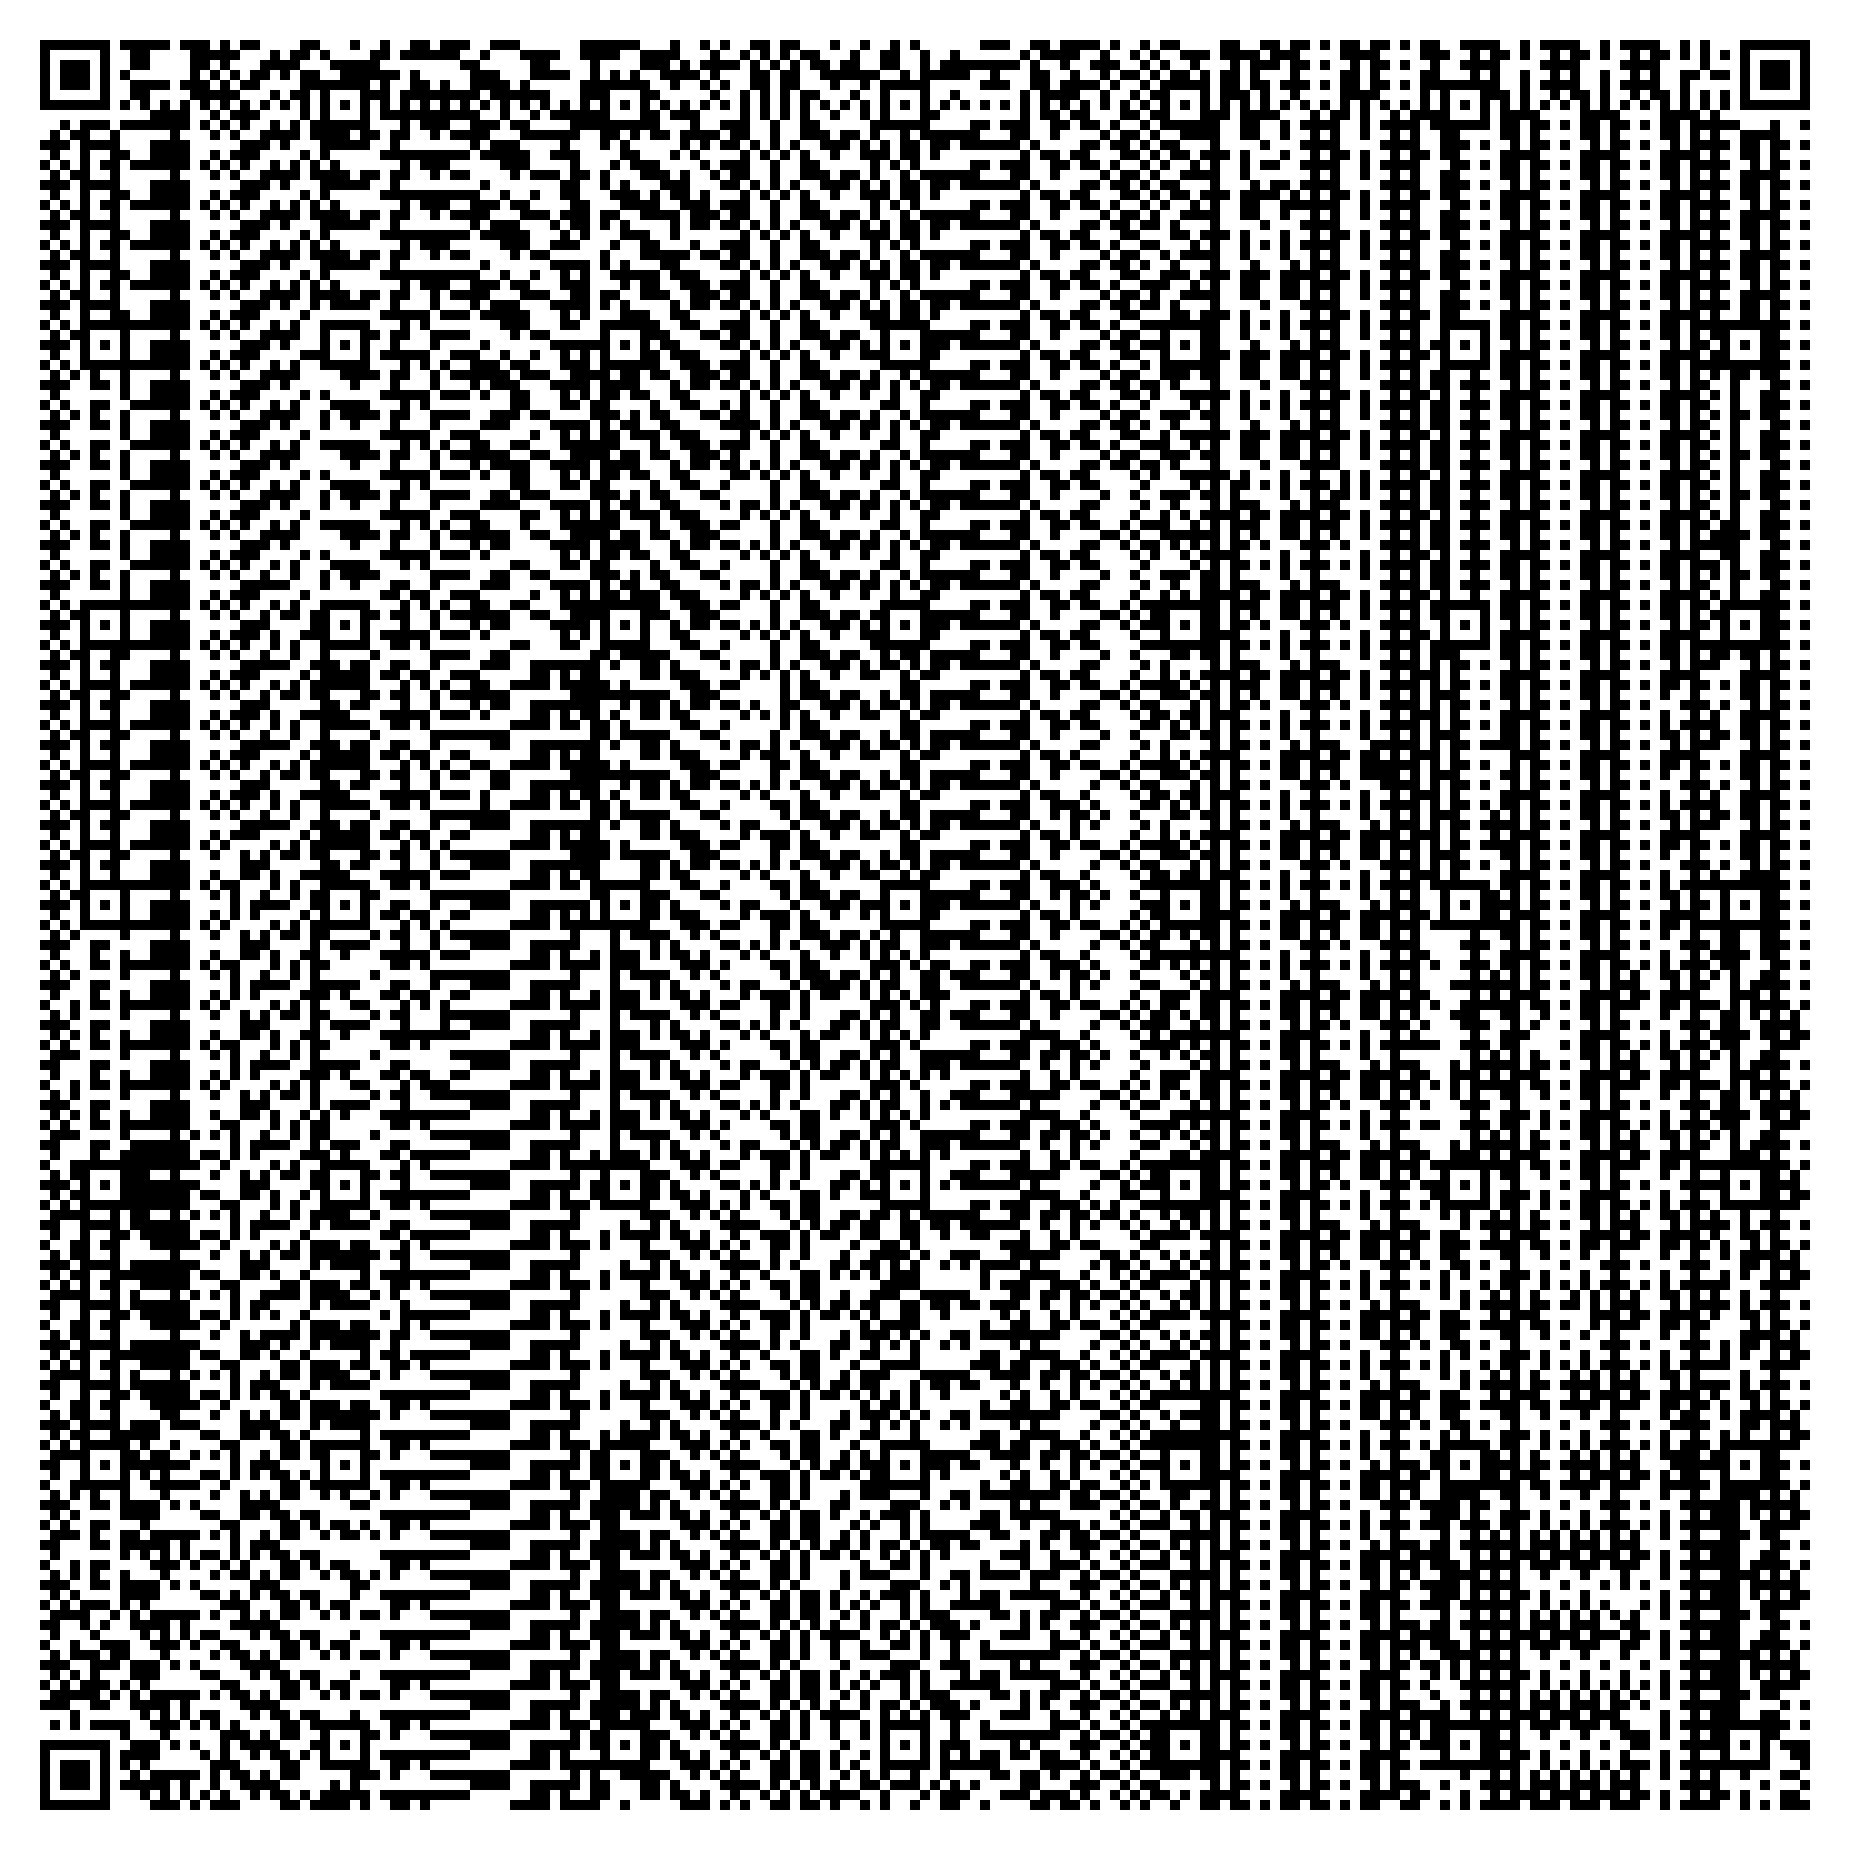
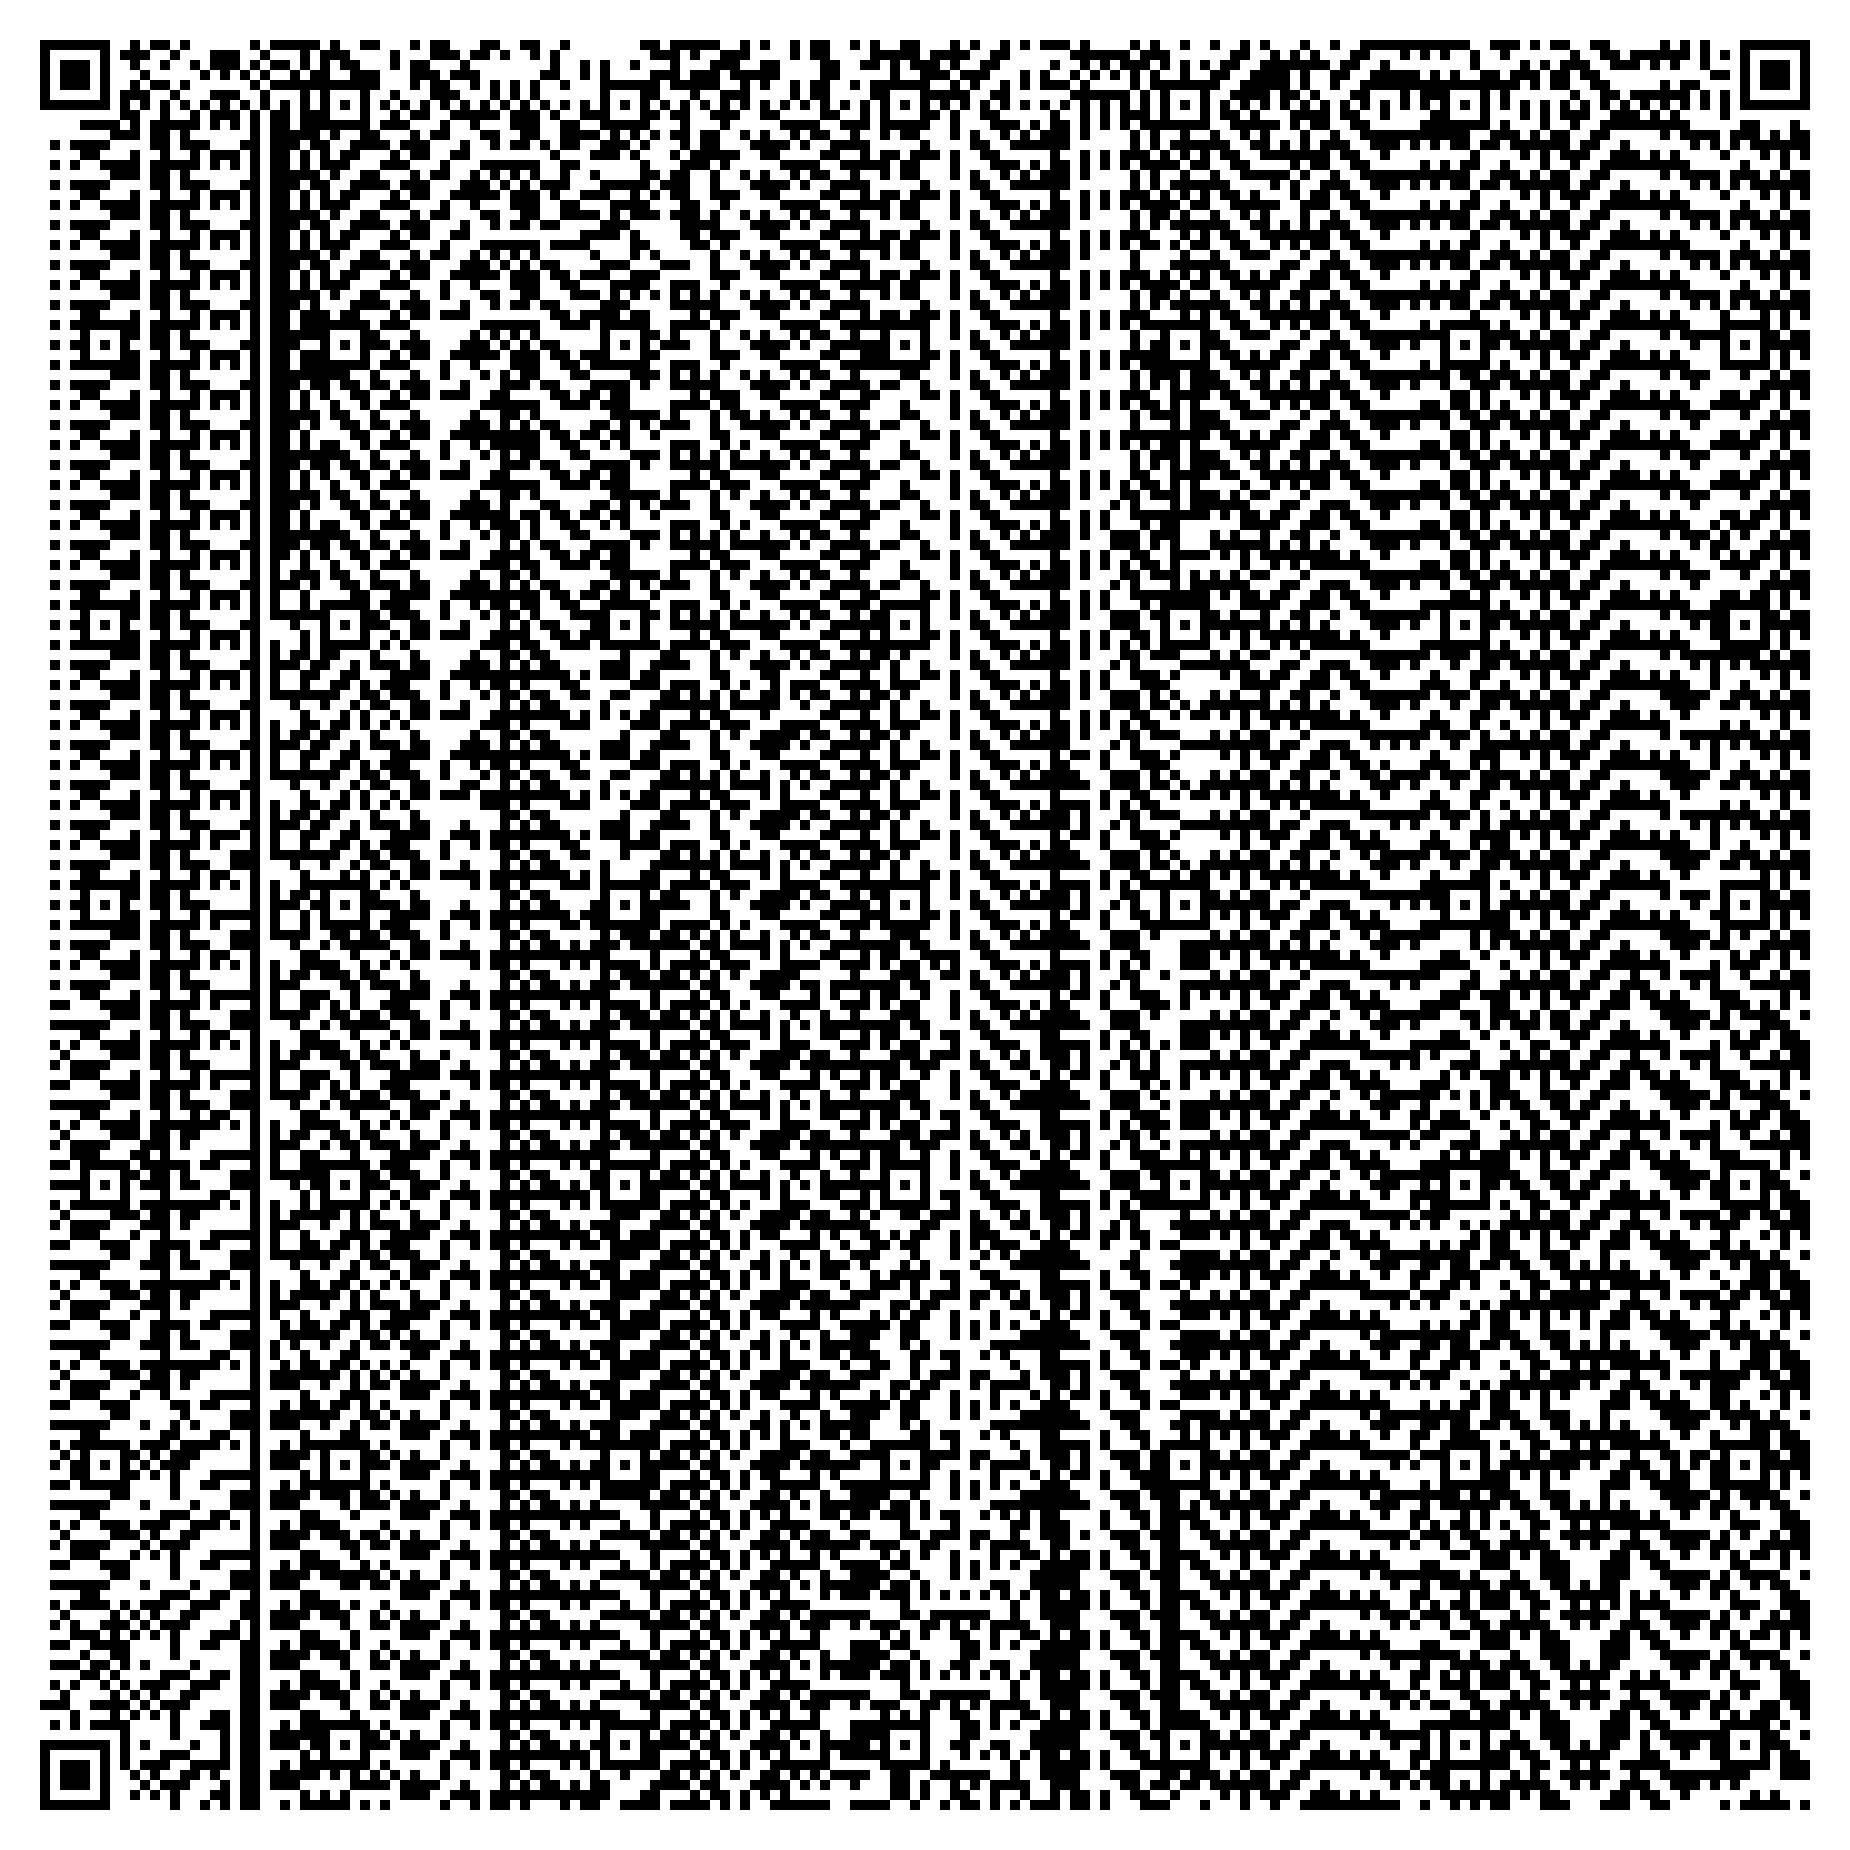
req corrected

diff --git a/qr_play/main/data_type/unit_testing.py b/qr_play/main/data_type/unit_testing.py
@@ -42,6 +42,13 @@ class UnitTesting(DataTypeMaster):
     def set_data_pool(self):
         data_pool_positive = [
             #
+            {
+                'remarks_list': 'Simple Qr Png',
+                'raw_data': 'small_data',
+                'scale': '10',
+                'qr_code_version': '40',
+                'image_format': 'png',
+            },
         ]
         data_pool_negative = [
             #
